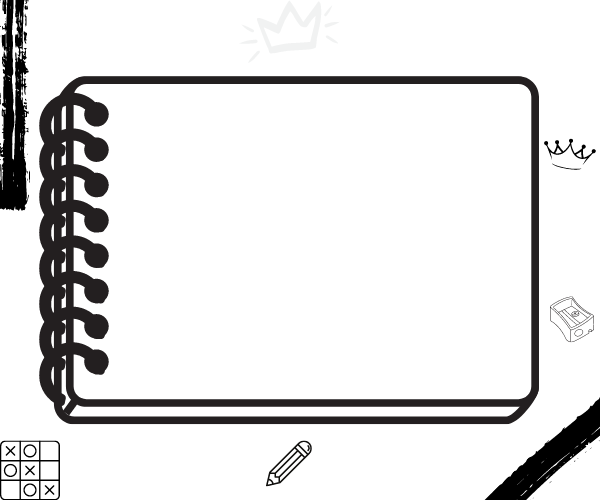
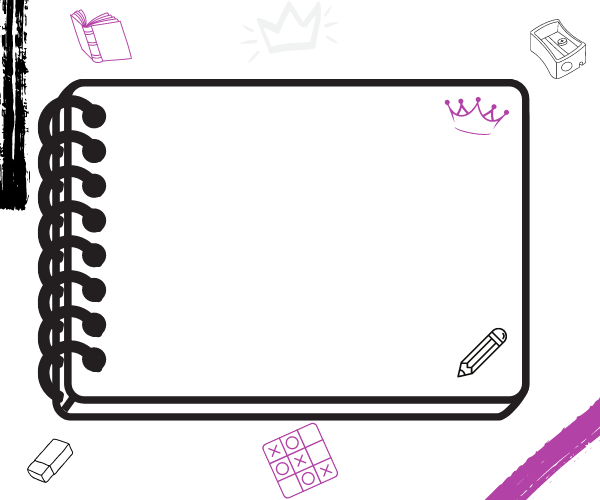
Cambios casi definitivos

diff --git a/juego.py b/juego.py
@@ -48,7 +48,7 @@ class Casilla:
     def crear_circulo(self):
         global turno
         circulo_1 : int = self.tablero.create_oval(self.esq_superior_izq[0] + self.lado / 6, self.esq_superior_izq[1] + self.lado / 6, 
-                            self.esq_superior_izq[0] + self.lado * (5/6), self.esq_superior_izq[1] + self.lado * (5/6), fill = "red")
+                            self.esq_superior_izq[0] + self.lado * (5/6), self.esq_superior_izq[1] + self.lado * (5/6), fill = "maroon2")
         circulo_2 : int = self.tablero.create_oval(self.esq_superior_izq[0] + self.lado / 6 + self.lado / 5, self.esq_superior_izq[1] + self.lado / 6 + self.lado / 5, 
                             self.esq_superior_izq[0] + self.lado * (5/6) - self.lado/5, self.esq_superior_izq[1] + self.lado * (5/6) - self.lado / 5, fill = "white")
         self.estado = 2
@@ -270,8 +270,9 @@ temp_puntuacion: List[tk.Label] = []
 label_puntuacion: tk.Label = tk.Label(
     creador_raiz.raiz,
     text= "0  -  0",
-    font=("Arial Black", 20),
-    background='white',
+    font=("Arial Black", 15),
+    background='black',
+    foreground="white",
     highlightthickness=0
 )
 
@@ -283,14 +284,14 @@ lista_tableros : List[Tablero] = []
 
 
 def cambio_color_1(evento):
+    boton_regresar['bg']= 'magenta3'
+    boton_regresar['fg']= 'black'
+
+def cambio_color_2(evento):
     boton_regresar['bg']= 'black'
     boton_regresar['fg']= 'white'
 
-def cambio_color_2(evento):
-    boton_regresar['bg']= 'white'
-    boton_regresar['fg']= 'black'
-
-boton_regresar : tk.Button = tk.Button(creador_raiz.raiz, text='Regresar', font= ('Arial Black', 10), background="white", foreground="black", command= eliminar_imagen_juego)
+boton_regresar : tk.Button = tk.Button(creador_raiz.raiz, text='Regresar', font= ('Arial Black', 10), background="black", foreground="white", command= eliminar_imagen_juego)
 
 boton_regresar.bind(
     '<Enter>',
@@ -327,7 +328,7 @@ def iniciar():
     display: int = lienzo_display.create_rectangle(0,0,300,45, outline="black", fill='black')
     
     # Display de contador
-    label_puntuacion.place(x= 485,y= 5)
+    label_puntuacion.place(x= 483,y= 22)
     temp_puntuacion.append(label_puntuacion)
 
     ##Cuadro negro superior
@@ -355,7 +356,7 @@ def cambia_turno ():
             lienzo_turno.delete(e)
         temp.pop(0)
         temp.pop(0)
-        circ_1: int = lienzo_turno.create_oval(3, 3, 27, 27, fill="red")
+        circ_1: int = lienzo_turno.create_oval(3, 3, 27, 27, fill="magenta3")
         temp.append(circ_1)
         circ_2: int = lienzo_turno.create_oval(10, 10, 20, 20, fill="white")
         temp.append(circ_2)
@@ -377,14 +378,15 @@ def actualizar_puntuacion (puntaje: List[int]):
     label_puntaje: tk.Label = tk.Label(
         creador_raiz.raiz,
         text= f"{puntaje[0]}  -  {puntaje[1]}",
-        font= ("Arial Black", 20),
-        background='white',
+        font= ("Arial Black", 15),
+        background='black',
+        foreground="white",
         highlightthickness=0
     )
     temp_puntuacion[0].place_forget()
     temp_puntuacion.pop(0)
     temp_puntuacion.append(label_puntaje)
-    label_puntaje.place(x= 485,y= 5)
+    label_puntaje.place(x= 483,y= 22)
 
 
 

diff --git a/menu_pre_juego.py b/menu_pre_juego.py
@@ -8,20 +8,20 @@ N: str = "0"
 contador_error : int = 0
 ##Funciones para botones: 
 def cambio_color_1(e):
+    boton_inicio['bg'] = 'magenta3'
+    boton_inicio['fg'] = 'black'
+
+def cambio_color_2(e):
     boton_inicio['bg'] = 'black'
     boton_inicio['fg'] = 'white'
 
-def cambio_color_2(e):
-    boton_inicio['bg'] = 'white'
-    boton_inicio['fg'] = 'black'
-
 def cambio_color_3(e):
-    boton_regresar['bg'] = 'black'
-    boton_regresar['fg'] = 'white'
+    boton_regresar['bg'] = 'magenta3'
+    boton_regresar['fg'] = 'black'
 
 def cambio_color_4(e):
-    boton_regresar['bg'] = 'white'
-    boton_regresar['fg'] = 'black'
+    boton_regresar['bg'] = 'black'
+    boton_regresar['fg'] = 'white'
 
 
 ##Fondo
@@ -33,17 +33,17 @@ etiqueta_datos : tk.Label = tk.Label(creador_raiz.raiz, text='Datos de juego:', 
 
 ##Entrada 1 Usuario:
 etiqueta_1 : tk.Label = tk.Label(creador_raiz.raiz, text='Ingrese el nombre del jugador 1:', font= ('Arial Black', 10), background="white")
-nombre_jugador_1 : tk.Entry = tk.Entry(creador_raiz.raiz, font= ('Arial Black',10), width=28)
+nombre_jugador_1 : tk.Entry = tk.Entry(creador_raiz.raiz, font= ('Arial Black',10), foreground='magenta3',  width=28)
 
 ##Entrada 1 Usuario:
 etiqueta_2 : tk.Label = tk.Label(creador_raiz.raiz, text='Ingrese el nombre del jugador 2:', font= ('Arial Black', 10), background="white")
 
-nombre_jugador_2 : tk.Entry = tk.Entry(creador_raiz.raiz, font= ('Arial Black',10), width=28)
+nombre_jugador_2 : tk.Entry = tk.Entry(creador_raiz.raiz, font= ('Arial Black',10), foreground='magenta3', width=28)
 
 ##Entrada 3 Usuario:
 etiqueta_3 : tk.Label = tk.Label(creador_raiz.raiz, text='Ingrese la dimensión del tablero:', font= ('Arial Black', 10), background="white")
 
-dimension : tk.Entry = tk.Entry(creador_raiz.raiz, font= ('Arial Black',10), width=28)
+dimension : tk.Entry = tk.Entry(creador_raiz.raiz, foreground='magenta3', font= ('Arial Black',10), width=28)
 
 ##Etiqueta Error:
 lista_errores : List[tk.Label] = [] 
@@ -133,7 +133,7 @@ def regresar():
         creador_raiz.raiz.quit()
 
 ##Botón de inicio
-boton_inicio : tk.Button = tk.Button(creador_raiz.raiz, text='Iniciar', font= ('Arial Black', 10), background="white" ,command= iniciar_juego)
+boton_inicio : tk.Button = tk.Button(creador_raiz.raiz, text='Iniciar', font= ('Arial Black', 10), background="black", foreground="white" ,command= iniciar_juego)
 
 
 boton_inicio.bind(
@@ -147,7 +147,7 @@ boton_inicio.bind(
 )
 
 ##Botón de regresar
-boton_regresar : tk.Button = tk.Button(creador_raiz.raiz, text='Regresar', font= ('Arial Black', 10), background="white", command= regresar)
+boton_regresar : tk.Button = tk.Button(creador_raiz.raiz, text='Regresar', font= ('Arial Black', 10), background="black", foreground="white", command= regresar)
 
 boton_regresar.bind(
     '<Enter>',

diff --git a/menu_principal.py b/menu_principal.py
@@ -6,20 +6,20 @@ fondo = tk.PhotoImage(file='images/Fondo3.png')
 fondo_etiqueta = tk.Label(creador_raiz.raiz, highlightthickness=0, image=fondo)
 
 def cambio_color_1(e):
+    boton_jugar['bg'] = 'magenta3'
+    boton_jugar['fg'] = 'black'
+
+def cambio_color_2(e):
     boton_jugar['bg'] = 'black'
     boton_jugar['fg'] = 'white'
 
-def cambio_color_2(e):
-    boton_jugar['bg'] = 'white'
-    boton_jugar['fg'] = 'black'
-
 def cambio_color_3(e):
-    boton_salir['bg'] = 'black'
-    boton_salir['fg'] = 'white'
+    boton_salir['bg'] = 'magenta3'
+    boton_salir['fg'] = 'black'
 
 def cambio_color_4(e):
-    boton_salir['bg'] = 'white'
-    boton_salir['fg'] = 'black'
+    boton_salir['bg'] = 'black'
+    boton_salir['fg'] = 'white'
 
 def ir_a_menu_pj():
     boton_jugar.place_forget()
@@ -32,7 +32,7 @@ def salir():
     creador_raiz.salir = True
 
 ##Botón de jugar
-boton_jugar : tk.Button = tk.Button(creador_raiz.raiz, text='Jugar', font= ('Arial Black', 20), background="white", foreground="black", command=ir_a_menu_pj)
+boton_jugar : tk.Button = tk.Button(creador_raiz.raiz, text='Jugar', font= ('Arial Black', 20), background="black", foreground="white", command=ir_a_menu_pj)
 
 boton_jugar.bind(
     '<Enter>',
@@ -45,11 +45,11 @@ boton_jugar.bind(
 )
 
 def iniciar():
-    boton_salir.place(x=233, y=320)
-    boton_jugar.place(x=225, y=220)
+    boton_salir.place(x=255, y=335)
+    boton_jugar.place(x=248, y=255)
 
 ##Botón de salir
-boton_salir : tk.Button = tk.Button(creador_raiz.raiz, text='Salir', font= ('Arial Black', 20), background="white", foreground="black", command= salir)
+boton_salir : tk.Button = tk.Button(creador_raiz.raiz, text='Salir', font= ('Arial Black', 20), background="black", foreground="white", command= salir)
 
 boton_salir.bind(
     '<Enter>',
@@ -61,27 +61,3 @@ boton_salir.bind(
     cambio_color_4
 )
 
-
-"""
-class Menu_principal:
-    def __init__(self) -> None:
-        self.boton_jugar : tk.Button = tk.Button(creador_raiz.raiz, text='Jugar', font= ('Arial Black', 20), background="white", foreground="black", command= self.ir_a_menu_pj)
-        self.boton_salir : tk.Button = tk.Button(creador_raiz.raiz, text='Salir', font= ('Arial Black', 20), background="white", foreground="black", command= self.salir)
-    
-    def colocar_botones(self):
-        self.boton_jugar.place(x=225, y=220)
-        self.boton_salir.place(x=233, y=320)
-
-    def ir_a_menu_pj(self):
-        self.boton_jugar.place_forget()
-        self.boton_salir.place_forget()
-        creador_raiz.opcion_del_usuario = 1
-        creador_raiz.raiz.quit()
-
-    def salir():
-        creador_raiz.raiz.destroy()
-        creador_raiz.salir = True
-
-
-menu_principal_llam : Menu_principal = Menu_principal()
-"""
